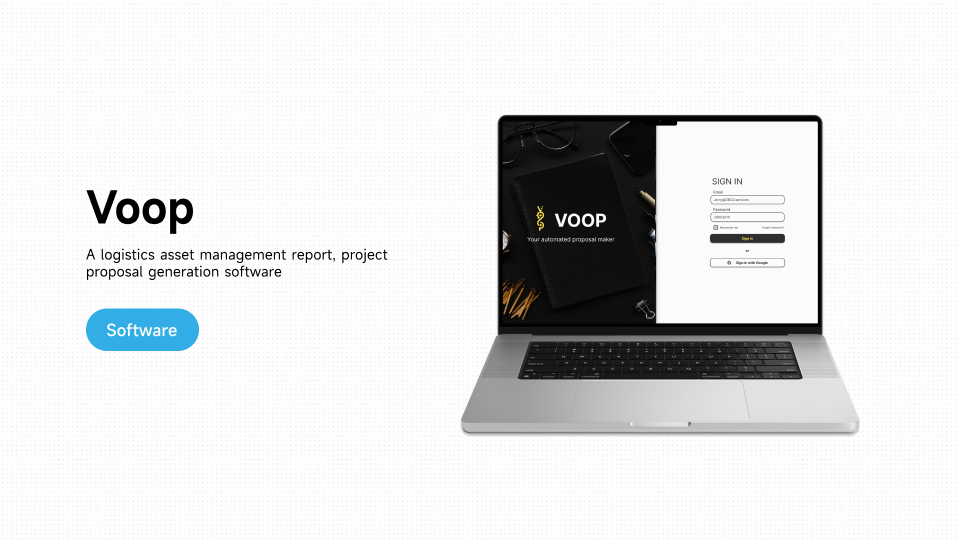
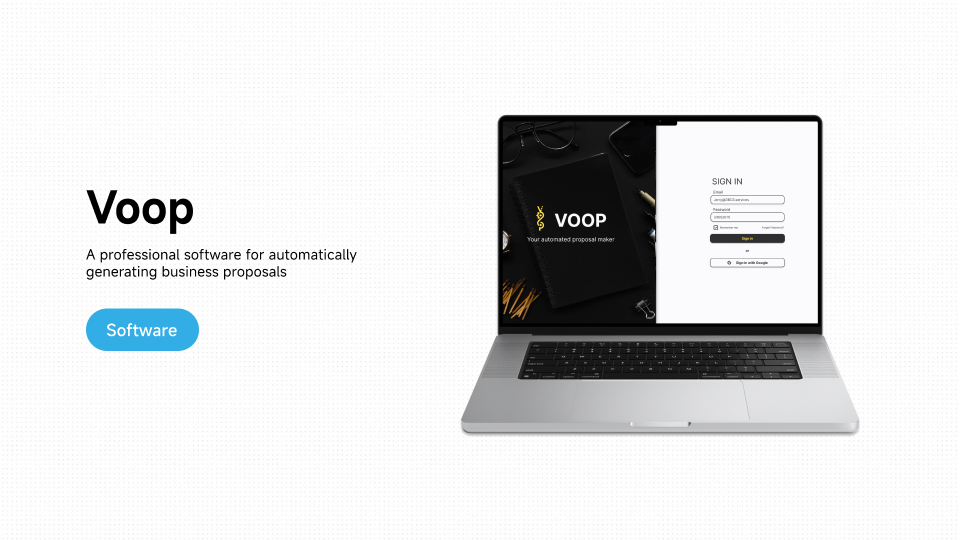
update

Changed region(s): [[0.0938, 0.4444, 0.4062, 0.5333]]

diff --git a/doge/proj/proj_voop/voop_en.html b/doge/proj/proj_voop/voop_en.html
@@ -1,5 +1,5 @@
 <!DOCTYPE html>
-<html lang="cn">
+<html lang="en">
 
 <head>
   <meta charset="UTF-8">
@@ -19,12 +19,12 @@
   <script src="https://cdnjs.cloudflare.com/ajax/libs/lightbox2/2.11.3/js/lightbox.min.js"></script>
 </head>
 
-<body class="lang-cn">
+<body class="lang-en">
   <header>
     <div class="header-content">
       <div class="header-text">
         <h1>Voop</h1>
-        <h2>专业的自动化企业提案生成软件</h2>
+        <h2>A professional software for auto-generating business proposals</h2>
         <div class="title-box">#Software</div>
       </div>
       <div class="header-image">
@@ -37,23 +37,30 @@
     <section id="projintro">
       <div class="overview-solution">
         <div class="overview">
-          <h2 class="section-title"><img src="/res/presentation.svg"> 项目概述</h2>
-          <p>Voop是一款旨在帮助公司自动化生成提案文档的公爵。目标是为市场营销团队、项目经理等角色提供一个更加高效的协作整理proposal的方式，从而让他们无需再为提案去寻找旧提案内容、重复撰写以及格式调整而浪费时间。
+          <h2 class="section-title"><img src="/res/presentation.svg"> Project Overview</h2>
+          <p>Voop is a tool that helps companies automate proposal creation. It offers marketing teams and project
+            managers a more efficient way to collaborate and organize proposals — saving time by removing the need to
+            search for old content, rewrite similar sections, and adjust formatting manually.
           </p>
         </div>
         <div class="solution">
-          <h2 class="section-title"><img src="/res/goal.svg"> 项目目的</h2>
-          <p>简化提案文档的创建过程，支持模板选择、内容自动填充以及自定义设计。同时，对不同的用户角色，如营销人员、业务经理等，设计出对应的需求和权限功能。</p>
+          <h2 class="section-title"><img src="/res/goal.svg"> Goal</h2>
+          <p>Simplifies the proposal creation process with template selection, auto-filled content, and customizable
+            design. It also supports role-based features and permissions tailored to different user types, such as
+            marketers and business managers.</p>
         </div>
       </div>
 
       <div class="role">
-        <h2 class="section-title"><img src="/res/Alphonse.svg"> 我的职责</h2>
+        <h2 class="section-title"><img src="/res/Alphonse.svg"> My Role</h2>
         <ul class="project-list">
-          <li class="project-list-item">与开发团队密切合作, 提供设计方案和建议，帮助确定产品的核心功能</li>
-          <li class="project-list-item">根据项目需求，设计初步的Wireframe，定义功能布局和交互流程</li>
-          <li class="project-list-item">使用Figma设计交互原型，展示关键功能</li>
-          <li class="project-list-item">收集并整理用户反馈，进行设计调整与优化</li>
+          <li class="project-list-item">Collaborated closely with the development team to provide design solutions and
+            help define core product features</li>
+          <li class="project-list-item">Created MVP based on project requirements, outlining layout and
+            user flows
+          </li>
+          <li class="project-list-item">Designed interactive prototypes in Figma to showcase key functionalities</li>
+          <li class="project-list-item">Collected and organized user feedback to iterate and refine the design</li>
         </ul>
       </div>
       </div>
@@ -68,7 +75,7 @@
 
 
     <section id="designproj-title">
-      <h2>设计过程</h2>
+      <h2>Design Process</h2>
     </section>
 
     <section id="designproj">
@@ -77,11 +84,11 @@
         <a href="#"><img src="/res/Alphonse.svg" alt="Logo" class="nav-logo" id="navLogo"></a>
         <div class="nav-menu" id="navMenu">
           <ul>
-            <li><a href="#step1">探索</a></li>
-            <li><a href="#step2">思考</a></li>
-            <li><a href="#step3">构建</a></li>
-            <li><a href="#step4">原型</a></li>
-            <li><a href="#step5">优化</a></li>
+            <li><a href="#step1">Explore</a></li>
+            <li><a href="#step2">Think</a></li>
+            <li><a href="#step3">Build</a></li>
+            <li><a href="#step4">Proto.</a></li>
+            <li><a href="#step5">Optimize</a></li>
           </ul>
         </div>
         <button class="category-button" id="categoryButton">Let's Begin</button> <!-- 类别按钮 -->
@@ -582,7 +589,7 @@
 
   <!-- Language Switch Button -->
   <button class="backspace" aria-label="back to homepage">
-    <a href="/doge/project_cn.html"><i class="ri-home-smile-fill"></i></a>
+    <a href="/doge/project_en.html"><i class="ri-home-smile-fill"></i></a>
   </button>
 
   <!--- Local JS stylesheet --->

diff --git a/doge/project_en.html b/doge/project_en.html
@@ -115,9 +115,8 @@
           <img src="/doge/proj/proj_voop/res/voop_en.png" alt="">
           <div class="overlay">
             <h1>Voop</h1>
-            <h2>Designed to streamline the management of logistics assets and facilitate the creation of project
-              proposals</h2>
-            <a href="/pug/pug_en.html"><button>Read More</button></a>
+            <h2>A professional software for automatically generating business proposals</h2>
+            <a href="/doge/proj/proj_voop/voop_en.html"><button>Read More</button></a>
           </div>
         </div>
         <!--- Parents'Note --->

diff --git a/doge/project_cn.html b/doge/project_cn.html
@@ -115,7 +115,7 @@
         <img src="/doge/proj/proj_voop/res/voop_cn.png" alt="">
         <div class="overlay">
           <h1>Voop</h1>
-          <h2>一款便捷的物流资产管理报告、项目报表生成软件</h2>
+          <h2>一款专业的自动化企业提案生成软件，帮助团队更有效率的建立专业提案</h2>
           <a href="/doge/proj/proj_voop/voop_cn.html"><button>查看详情</button></a>
         </div>
       </div>

diff --git a/doge/proj/proj_voop/css/voop.css b/doge/proj/proj_voop/css/voop.css
@@ -865,10 +865,16 @@ h2{
   display: block; /* 在手机上显示按钮 */
  }
 
- .centernav.expanding{
+ .lang-cn .centernav.expanding{
   margin-top: 24px ;
   width: 45vh; /* 手机屏幕上导航栏占满宽度 */
  }
+
+ .lang-en .centernav.expanding{
+  margin-top: 24px ;
+  width: 50vh; /* 手机屏幕上导航栏占满宽度 */
+ }
+
 
  .nav-menu ul li a{
   margin-left: 16px;
